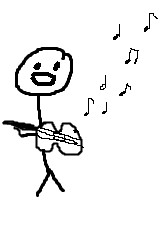
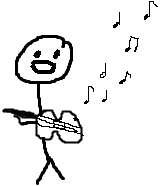
added the bard!

diff --git a/index.html b/index.html
@@ -47,6 +47,29 @@
       top: 50%;
       left: 37%;
     }
+
+    .hide-checkbox{
+      display: none;
+      width: 120px;
+      height: 100px;
+    }
+
+    .sadbard{
+      position: fixed;
+      background: url('./img/sadbard.webp') no-repeat;
+      background-size: 100% 100%;
+      display: inline-block;
+      width:120px;
+      height:160px;
+      top: 76%;
+      left: 5%;
+      cursor: pointer;
+    }
+
+    .hide-checkbox:checked + .sadbard{
+      background: url('./img/happybard.webp') no-repeat;
+      background-size: cover;
+    }
   </style>
 
   <body class="bg-container">
@@ -84,35 +107,36 @@
   <audio id="restintro" src="sound/take a rest and eat/Take some rest(Intro).wav"></audio>
   <audio id="restloop" src="sound/take a rest and eat/Take some rest (Loop).wav" loop></audio>
   <audio id="restend" src="sound/take a rest and eat/Take some rest(End).wav"></audio>
-
-  <label>
-    <input type="checkbox" id="mute" value="yes">
-    music
+  
+  <input type="checkbox" id="mute" value="yes" class="hide-checkbox">
+  <label for="mute" class="sadbard">
   </label>
 
-  <p id="status-message"></p>
 
   <script>
     const intro = document.getElementById('restintro');
     const loop = document.getElementById('restloop');
     const end = document.getElementById('restend');
     const checkbox = document.getElementById("mute");
-    const statusMessage = document.getElementById("status-message");
     intro.volume = 0.05;
     loop.volume = 0.05;
     end.volume = 0.05;
+    let i = 0;
     checkbox.addEventListener('change', function() {
       if (this.checked) {
-        intro.play();
-      
-        intro.onended = function() {
+        if(i==0){
+          intro.play();
+          i = 1;
+          intro.onended = function() {
+            loop.play();
+          };
+        }
+        else{
           loop.play();
-        };
-
-      statusMessage.textContent = "Unmuted";
-      } 
-      else {
-        statusMessage.textContent = "Muted";
+          
+        }
+      }
+      else{
         loop.pause();
       }
     });
